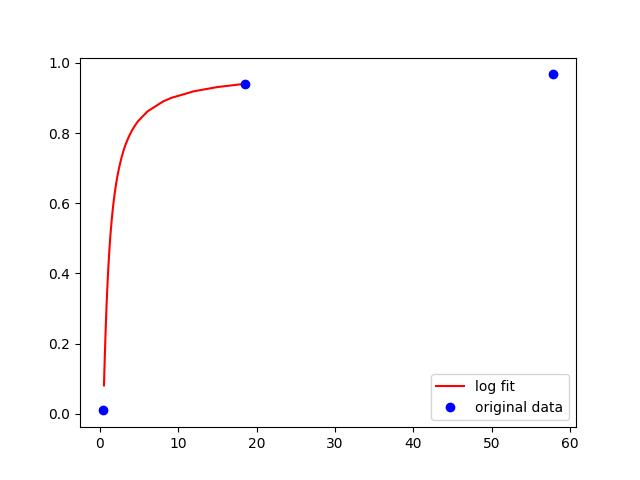
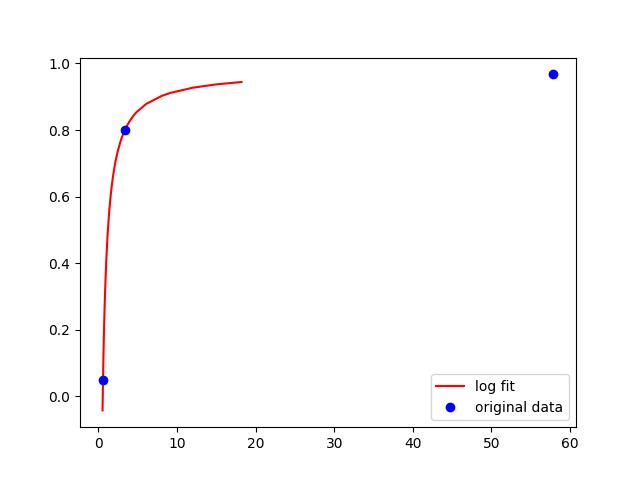
save

diff --git a/Nonlinear_fitting.py b/Nonlinear_fitting.py
@@ -12,8 +12,10 @@ a, b, c = 0, 0, 0
 if 1:
     USE_BAIDU = 1
     # 给定一组非线性数据
-    xdata = np.array([0.35, 18.47, 57.89])
-    ydata = np.array([0.01, 0.94, 0.967])
+    # xdata = np.array([0.41, 0.53, 0.77,  0.90, 1.08, 1.58, 3.37, 4.32, 5.99, 9.63, 18.47, 57.89])
+    # ydata = np.array([0.01, 0.05, 0.11,  0.21, 0.32, 0.51, 0.75, 0.80, 0.85, 0.89,  0.94, 0.97])
+    xdata = np.array([0.59, 3.37, 57.89])
+    ydata = np.array([0.05, 0.8, 0.967])
 
     xfitdata = np.array(
         [
